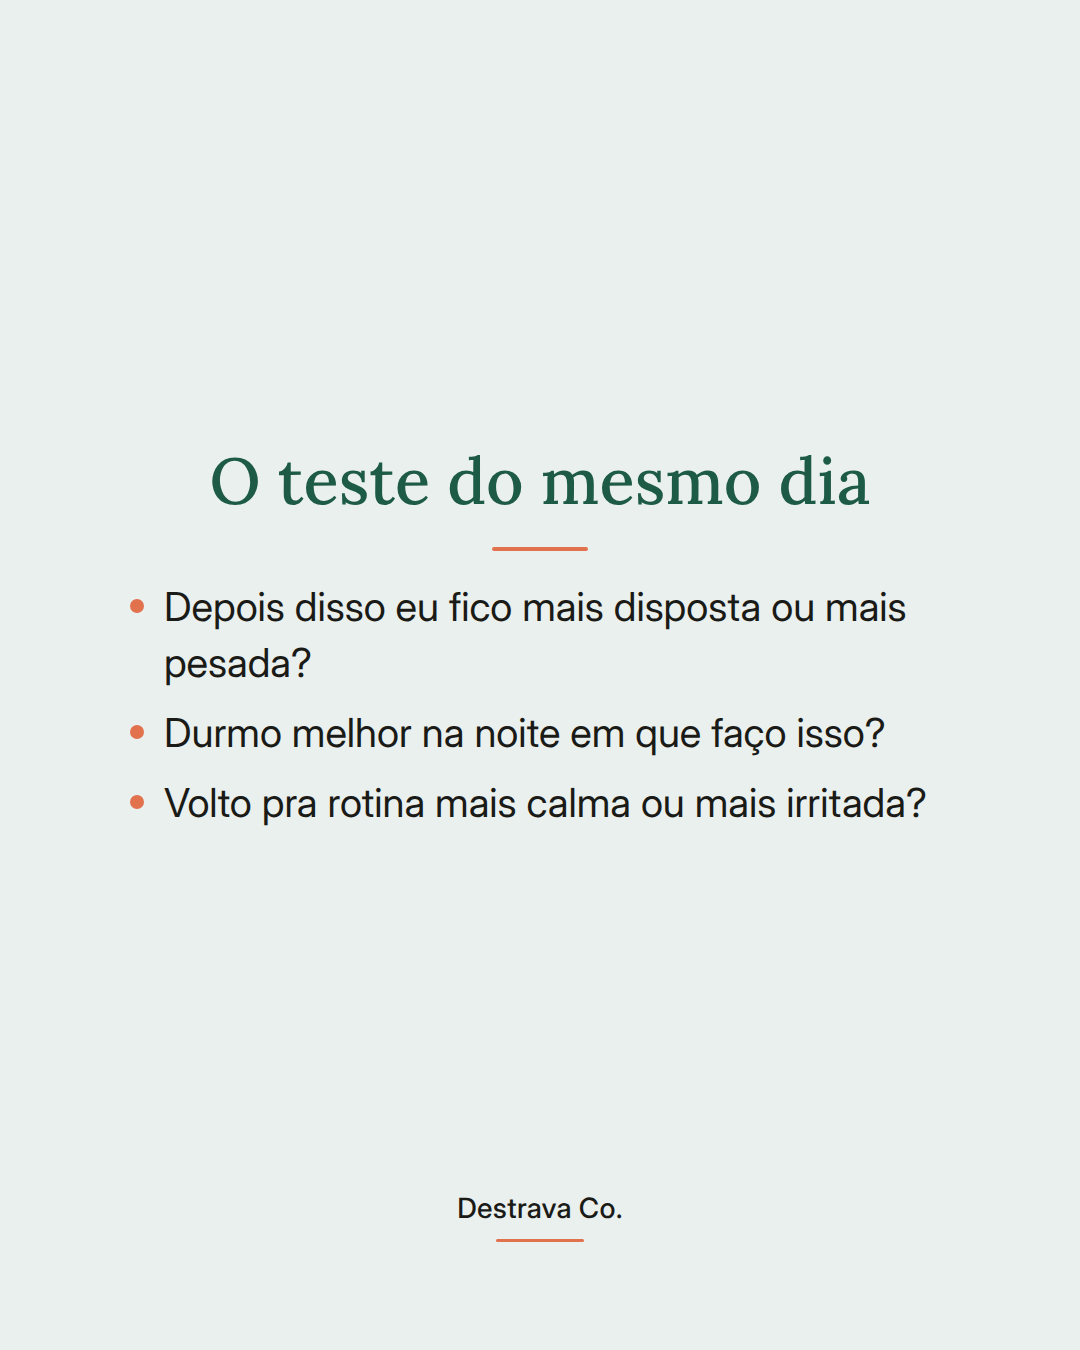
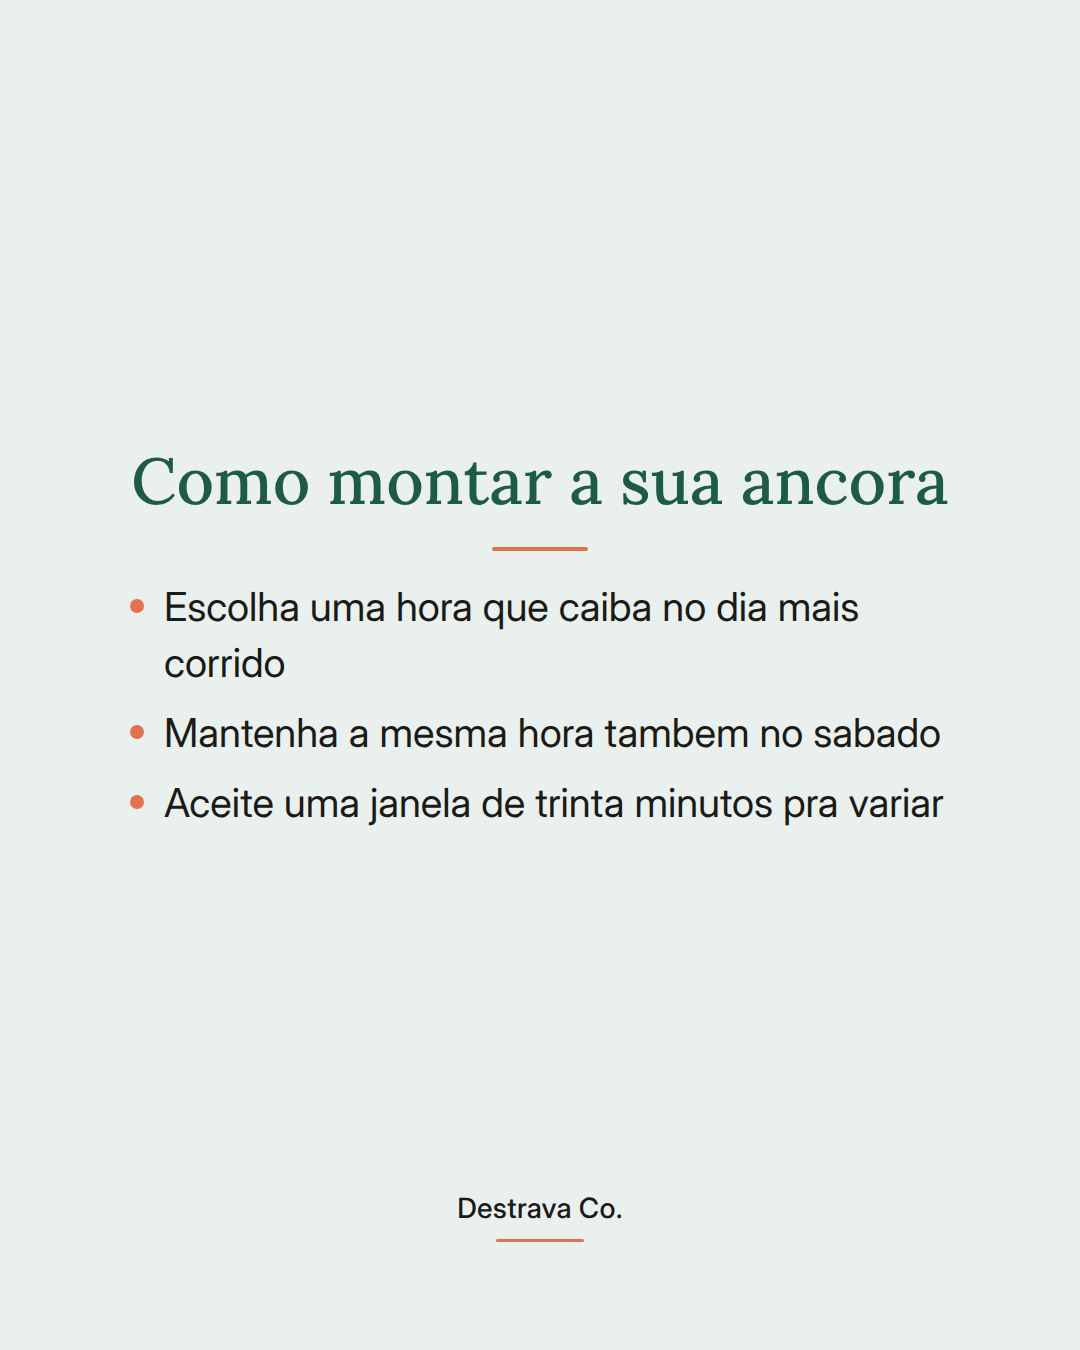
content: peças Instagram 2026_10_28

Changed region(s): [[0.1528, 0.4356, 0.8861, 0.6222], [0.1222, 0.3422, 0.8861, 0.3733]]

diff --git a/public/content/2026_10_28/index.html b/public/content/2026_10_28/index.html
@@ -19,26 +19,24 @@
 </head>
 <body>
 <h1>Corpo · capa B (wash3)</h1>
-<div class="meta">2026-10-28 · gerado em 2026-10-28T10:02:09 · sticker sugerido nos Stories: emoji slider</div>
+<div class="meta">2026-10-28 · gerado em 2026-10-28T16:08:35 · sticker sugerido nos Stories: emoji slider</div>
 <h2>Carrossel</h2>
-<div class="strip"><img src="2026_10_28_-_Carrossel_Corpo_01.png" alt="Lâmina de capa com fundo wash3 da linha Corpo e título em campo sobre o hábito que te paga no mesmo dia." title="2026_10_28_-_Carrossel_Corpo_01.png"><img src="2026_10_28_-_Carrossel_Corpo_02.png" alt="Lâmina de fundo wash1 bem claro com título no campo profundo explicando que promessa distante perde pro cansaço de hoje." title="2026_10_28_-_Carrossel_Corpo_02.png"><img src="2026_10_28_-_Carrossel_Corpo_03.png" alt="Lâmina de fundo wash1 bem claro com título no campo profundo e três perguntas pra testar o hábito no mesmo dia." title="2026_10_28_-_Carrossel_Corpo_03.png"><img src="2026_10_28_-_Carrossel_Corpo_04.png" alt="Lâmina de fundo wash1 bem claro com título no campo profundo orientando manter o hábito que devolve energia." title="2026_10_28_-_Carrossel_Corpo_04.png"><img src="2026_10_28_-_Carrossel_Corpo_05.png" alt="Lâmina de CTA com fundo campo profundo, texto creme e botão no acento convidando pro Destrava 21." title="2026_10_28_-_Carrossel_Corpo_05.png"></div>
+<div class="strip"><img src="2026_10_28_-_Carrossel_Corpo_01.png" alt="Lamina com fundo wash3 da linha Corpo e titulo em campo escrito a hora que voce acorda organiza o resto do dia." title="2026_10_28_-_Carrossel_Corpo_01.png"><img src="2026_10_28_-_Carrossel_Corpo_02.png" alt="Lamina de fundo wash1 bem claro com titulo no campo profundo explicando por que o horario de acordar vira ancora da rotina." title="2026_10_28_-_Carrossel_Corpo_02.png"><img src="2026_10_28_-_Carrossel_Corpo_03.png" alt="Lamina de fundo wash1 bem claro com titulo no campo profundo e tres passos curtos pra definir o horario de acordar." title="2026_10_28_-_Carrossel_Corpo_03.png"><img src="2026_10_28_-_Carrossel_Corpo_04.png" alt="Lamina de fundo wash1 bem claro com titulo no campo profundo explicando o que fazer quando a noite sai do planejado." title="2026_10_28_-_Carrossel_Corpo_04.png"><img src="2026_10_28_-_Carrossel_Corpo_05.png" alt="Lamina com fundo campo profundo, texto creme e botao no tom de acento convidando a conhecer o Destrava 21." title="2026_10_28_-_Carrossel_Corpo_05.png"></div>
 <h2>Stories</h2>
-<div class="strip"><img class="story" src="2026_10_28_-_Stories_Corpo_01.png" alt="Lâmina de Stories com fundo wash3 da linha e título em campo convidando a ver o carrossel no feed." title="2026_10_28_-_Stories_Corpo_01.png"><img class="story" src="2026_10_28_-_Stories_Corpo_02.png" alt="Stories em fundo verde profundo apresentando o programa Destrava 21 Mulheres com o endereço da página em destaque no chip coral." title="2026_10_28_-_Stories_Corpo_02.png"></div>
+<div class="strip"><img class="story" src="2026_10_28_-_Stories_Corpo_01.png" alt="Story com fundo wash3 da linha Corpo e titulo em campo convidando a ver o carrossel novo no feed." title="2026_10_28_-_Stories_Corpo_01.png"><img class="story" src="2026_10_28_-_Stories_Corpo_02.png" alt="Stories em fundo verde profundo apresentando o programa Destrava 21 Mulheres com o endereço da página em destaque no chip coral." title="2026_10_28_-_Stories_Corpo_02.png"></div>
 <div class="meta">1º · stories post do dia · <a href="2026_10_28_-_Stories_Corpo_01.png" download="2026_10_28_-_Stories_Corpo_01.png">⬇ baixar</a> · sticker de link → post do dia (permalink em publicado.json depois de publicar) · sticker extra sugerido: emoji slider</div><div class="meta">2º · stories oferta · <a href="2026_10_28_-_Stories_Corpo_02.png" download="2026_10_28_-_Stories_Corpo_02.png">⬇ baixar</a> · sticker de link → <a href="https://destravaco.com.br/d21-mulheres-inicial/">https://destravaco.com.br/d21-mulheres-inicial/</a></div>
 <div class="meta">Stories não vão pela API: baixe e poste no app colando o sticker de link.</div>
 <h2>Legenda</h2>
-<pre>Constância fica mais fácil quando o hábito devolve algo no mesmo dia.
+<pre>Energia mais estavel comeca pelo horario que voce acorda, nao pela forca de vontade.
 
-Energia e disposição hoje seguram mais que promessa de resultado lá na frente.
+Quando a hora de levantar muda todo dia, o corpo passa a semana se reajustando. Dai vem aquela sensacao de cansaco que nenhum cafe resolve.
 
-Quando o retorno só aparece muito depois, o hábito disputa espaço com o seu cansaço de agora. E o cansaço costuma ganhar essa.
+A proposta e simples: escolha uma hora que caiba ate no seu dia mais corrido e repita, inclusive no fim de semana. Uma janela de meia hora pra mais ou pra menos ja basta.
 
-Por isso vale escolher pelo que você sente no mesmo dia: mais disposta, sono melhor, cabeça mais calma ao voltar pra rotina. Esse é o hábito que você vai querer repetir até na semana bagunçada.
+E se a noite virar do avesso, acorde perto da hora de sempre e durma mais cedo depois. Nao precisa esperar a proxima segunda pra retomar.
 
-Testa um por alguns dias e repara na sensação, sem cobrança e sem lista enorme.
+Salva pra lembrar amanha de manha e compartilha com quem acorda cansada todo dia. No link da bio voce encontra o Destrava 21 e o metodo D.R.A.
 
-Salva pra lembrar e compartilha com uma amiga que vive recomeçando. Se quiser um caminho simples pra montar o seu, o Destrava 21 te guia pelo método D.R.A.
-
-<span class="tags">#constancia #habitossaudaveis #rotinacorrida #autocuidado #mulheresreais</span></pre>
+<span class="tags">#constancia #autocuidado #rotinacorrida #habitossaudaveis #bemestarfeminino</span></pre>
 </body>
 </html>
